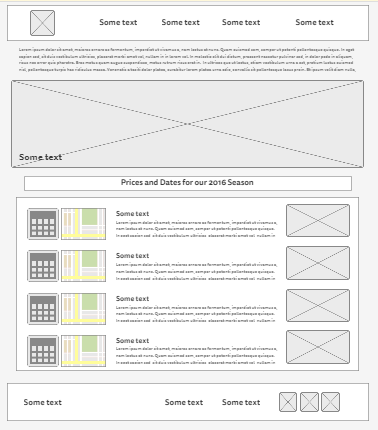
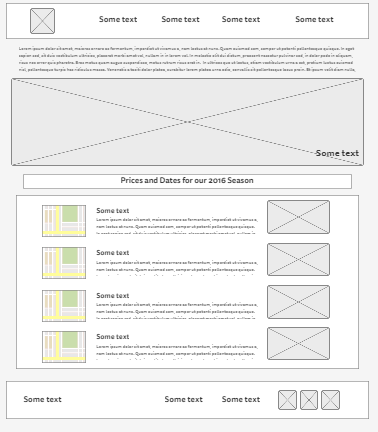
editing rates and dates

diff --git a/wwr/ratesanddates.html b/wwr/ratesanddates.html
@@ -32,27 +32,21 @@
             </section>
         </div>
     </div>
-    <main class='home-grid'>
+    <main class='subpage-grid'>
         <div id="background subpage"></div> 
-        <section class='rivers-card'>
-            <img class='card-img' src='images/rivers.jpg' alt='river in forest'>
-            <img class='icon' src='images/river_icon.png' alt='river icon'>
-            <h2>Rivers</h2>
+        <section class='grandcanyon-card'>
+            <img class='grand canyon image' src='images/grand canyon.jpg' alt='grand canyon image'>
+            <h2>GRAND CANYON THREE-NIGHT TRIP:</h2>
+            <h3>Pricing and Dates Grand Canyon 3 night trips: $1,475</h3>
+            <h4>April 30 May 13, 20, 27, 30 June 3, 10, 17, 24, 28 July 1, 8, 15, 22, 29 August 5, 12, 19, 26 September 9, 17</h4>
         </section>
-        <section class='camping-card'>
-            <img class='card-img' src='images/camping.jpg' alt='tent in mountains'>
-            <img class='icon' src='images/fire_icon.png' alt='fire icon'>
-            <h2>Camping</h2>
+        <section class='grandcanyonboating-card'>
+            <img class='grand canyon boating image' src='images/grand-canyon-boating.jpg' alt='grand canyon boating image'>
+            <h2>GRAND CANYON SIX-NIGHT TRIP:</h2>
+            <h3>Pricing and Dates Grand Canyon 3 night trips: $1,475</h3>
+            <h3>Note: The dates listed will be the date that you spend the night in Marble Canyon. The launch date is the following day.</h3>
+            <h4>April 30 May 13, 20, 27, 30 June 3, 10, 17, 24, 28 July 1, 8, 15, 22, 29 August 5, 12, 19, 26 September 9, 17</h4>
         </section>
-        <section class='rapids-card'>
-            <img class='card-img' src='images/rapids.jpg' alt='rafting boat'>
-            <img class='icon' src='images/oars.png' alt='oars icon'>
-            <h2>Rapids</h2>
-        <section class='rivers-card'>
-            <img class='card-img' src='images/rivers.jpg' alt='river in forest'>
-            <img class='icon' src='images/river_icon.png' alt='river icon'>
-            <h2>Rivers</h2>
-        </section> 
     </main>
     <footer>
         <h3>Dry Oar &copy; 2022 - Diane Steffy Chambi Gutierrez</h3>
